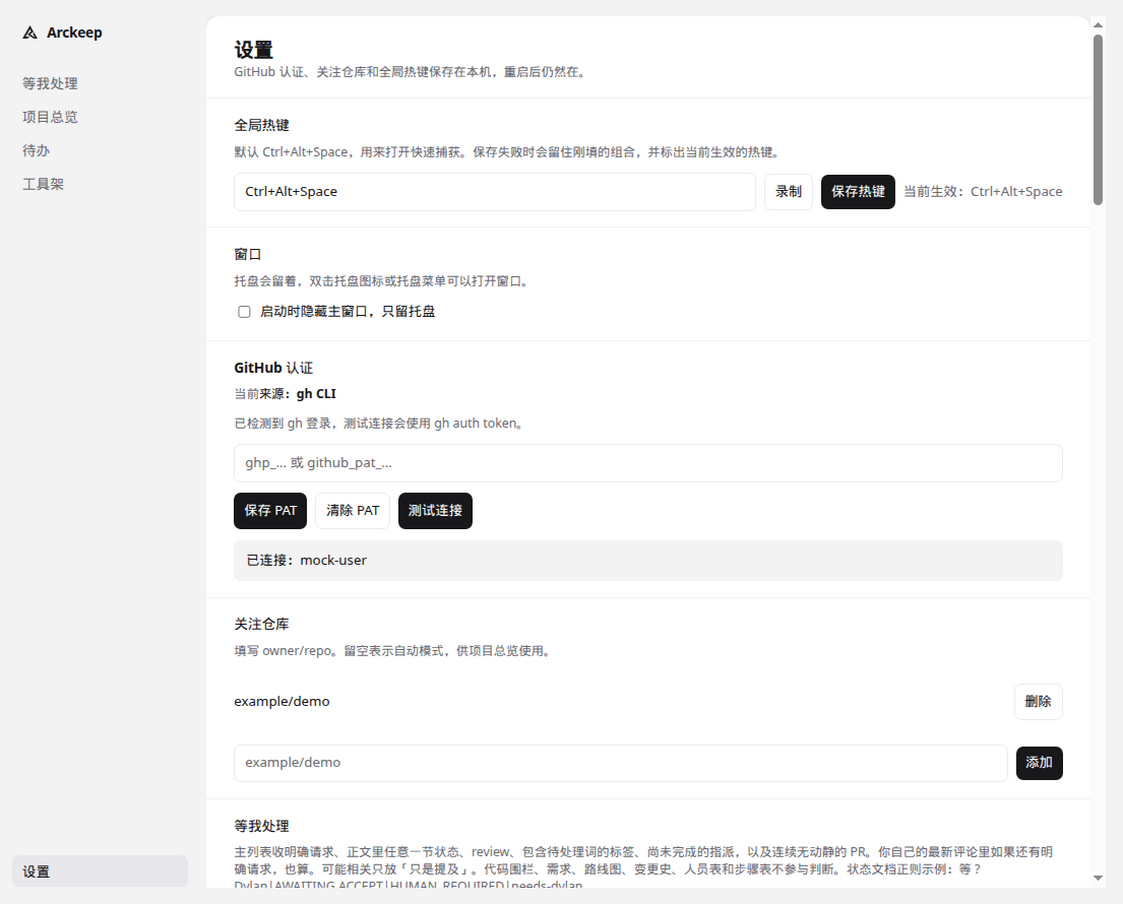
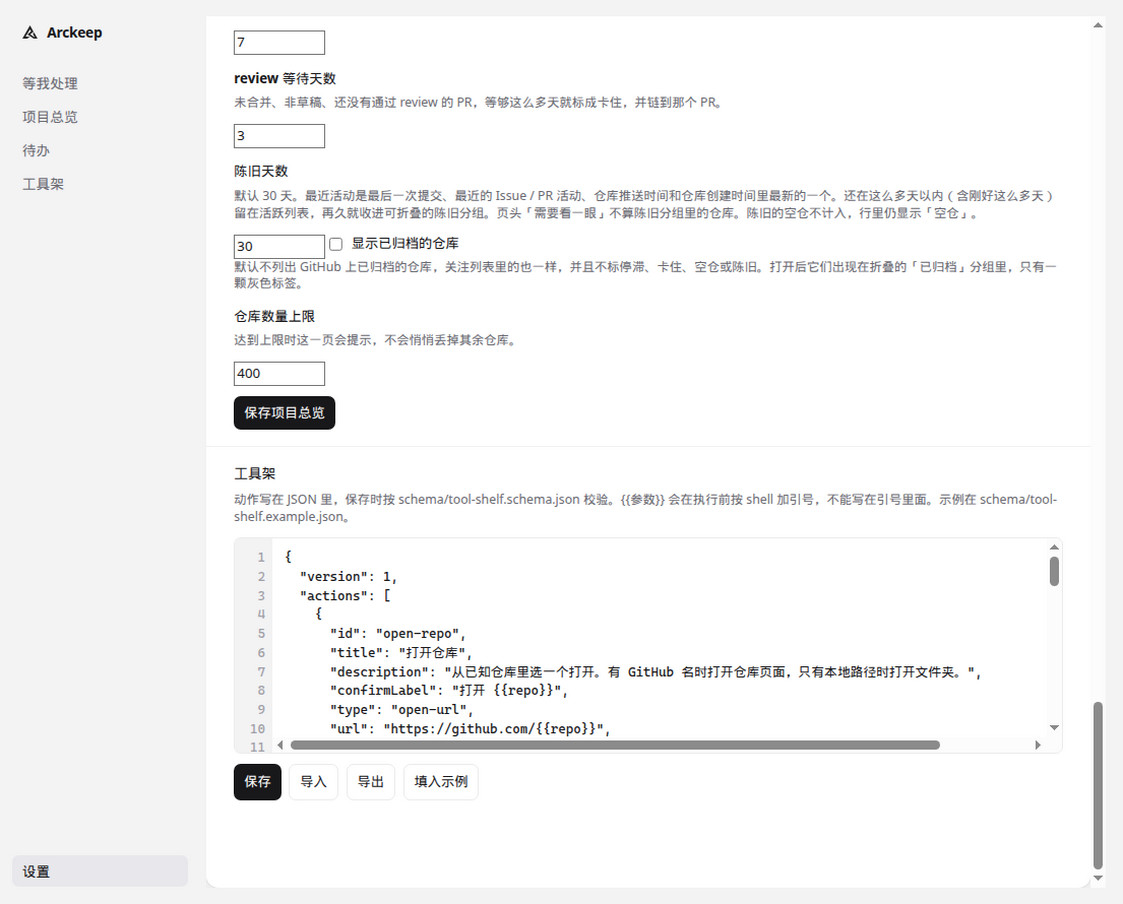
设置页把侧栏固定成通高左列，卡片只留在右列。
滚到页面底部再拍设置截图，避免卡片文字伸进侧栏。

diff --git a/src/renderer/styles.css b/src/renderer/styles.css
@@ -14,6 +14,7 @@
 html, body {
   margin: 0;
   height: 100%;
+  overflow: hidden;
   background: var(--arckeep-bg);
   color: var(--arckeep-ink);
 }
@@ -35,15 +36,20 @@ a:focus-visible {
 .app {
   display: grid;
   grid-template-columns: 200px minmax(0, 1fr);
-  min-height: 100vh;
+  grid-template-rows: minmax(0, 1fr);
+  height: 100%;
+  min-height: 100%;
+  overflow: hidden;
   background: var(--arckeep-bg);
 }
 
 .workspace {
   display: flex;
   flex-direction: column;
-  height: 100vh;
+  height: 100%;
+  min-height: 0;
   min-width: 0;
+  overflow: hidden;
   background: var(--arckeep-bg);
 }
 
@@ -73,6 +79,10 @@ a:focus-visible {
 .nav {
   display: flex;
   flex-direction: column;
+  height: 100%;
+  min-height: 0;
+  min-width: 0;
+  overflow: hidden;
   padding: 22px 12px 16px;
   background: var(--arckeep-bg);
   color: var(--arckeep-ink);
@@ -152,10 +162,20 @@ main {
 
 .page {
   flex: 1 0 auto;
+  width: 100%;
   min-width: 0;
+  max-width: 100%;
   background: var(--arckeep-surface);
   border-radius: 12px;
   box-shadow: var(--arckeep-sheet-shadow);
+}
+
+.page.settings {
+  padding-bottom: 72px;
+}
+
+.page.settings .hint {
+  overflow-wrap: anywhere;
 }
 
 .page h1 {
@@ -205,6 +225,8 @@ main {
 }
 
 .card {
+  min-width: 0;
+  max-width: 100%;
   background: transparent;
   border: 0;
   border-top: 1px solid var(--arckeep-hair);

diff --git a/src/main/screenshot-run.ts b/src/main/screenshot-run.ts
@@ -538,6 +538,13 @@ export async function presentScreenshot(options: {
   }
 
   await new Promise(resolve => setTimeout(resolve, 150))
+  if (scene === 'connected') {
+    await contents.executeJavaScript(`(() => {
+      const main = document.querySelector('main')
+      if (main) main.scrollTop = main.scrollHeight
+    })()`)
+    await new Promise(resolve => setTimeout(resolve, 200))
+  }
   const image = await contents.capturePage()
   mkdirSync(path.dirname(file), { recursive: true })
   writeFileSync(file, image.toPNG())

diff --git a/src/renderer/main.ts b/src/renderer/main.ts
@@ -50,7 +50,7 @@ function messageBox(parent: HTMLElement, kind: 'info' | 'error', text: string): 
 
 async function renderSettings(options?: { focusToken?: boolean, focusWatch?: boolean }): Promise<void> {
   if (!content) return
-  const page = el('section', { class: 'page' }, [
+  const page = el('section', { class: 'page settings' }, [
     el('h1', {}, ['设置']),
     el('p', { class: 'lede' }, ['GitHub 认证、关注仓库和全局热键保存在本机，重启后仍然在。'])
   ])
